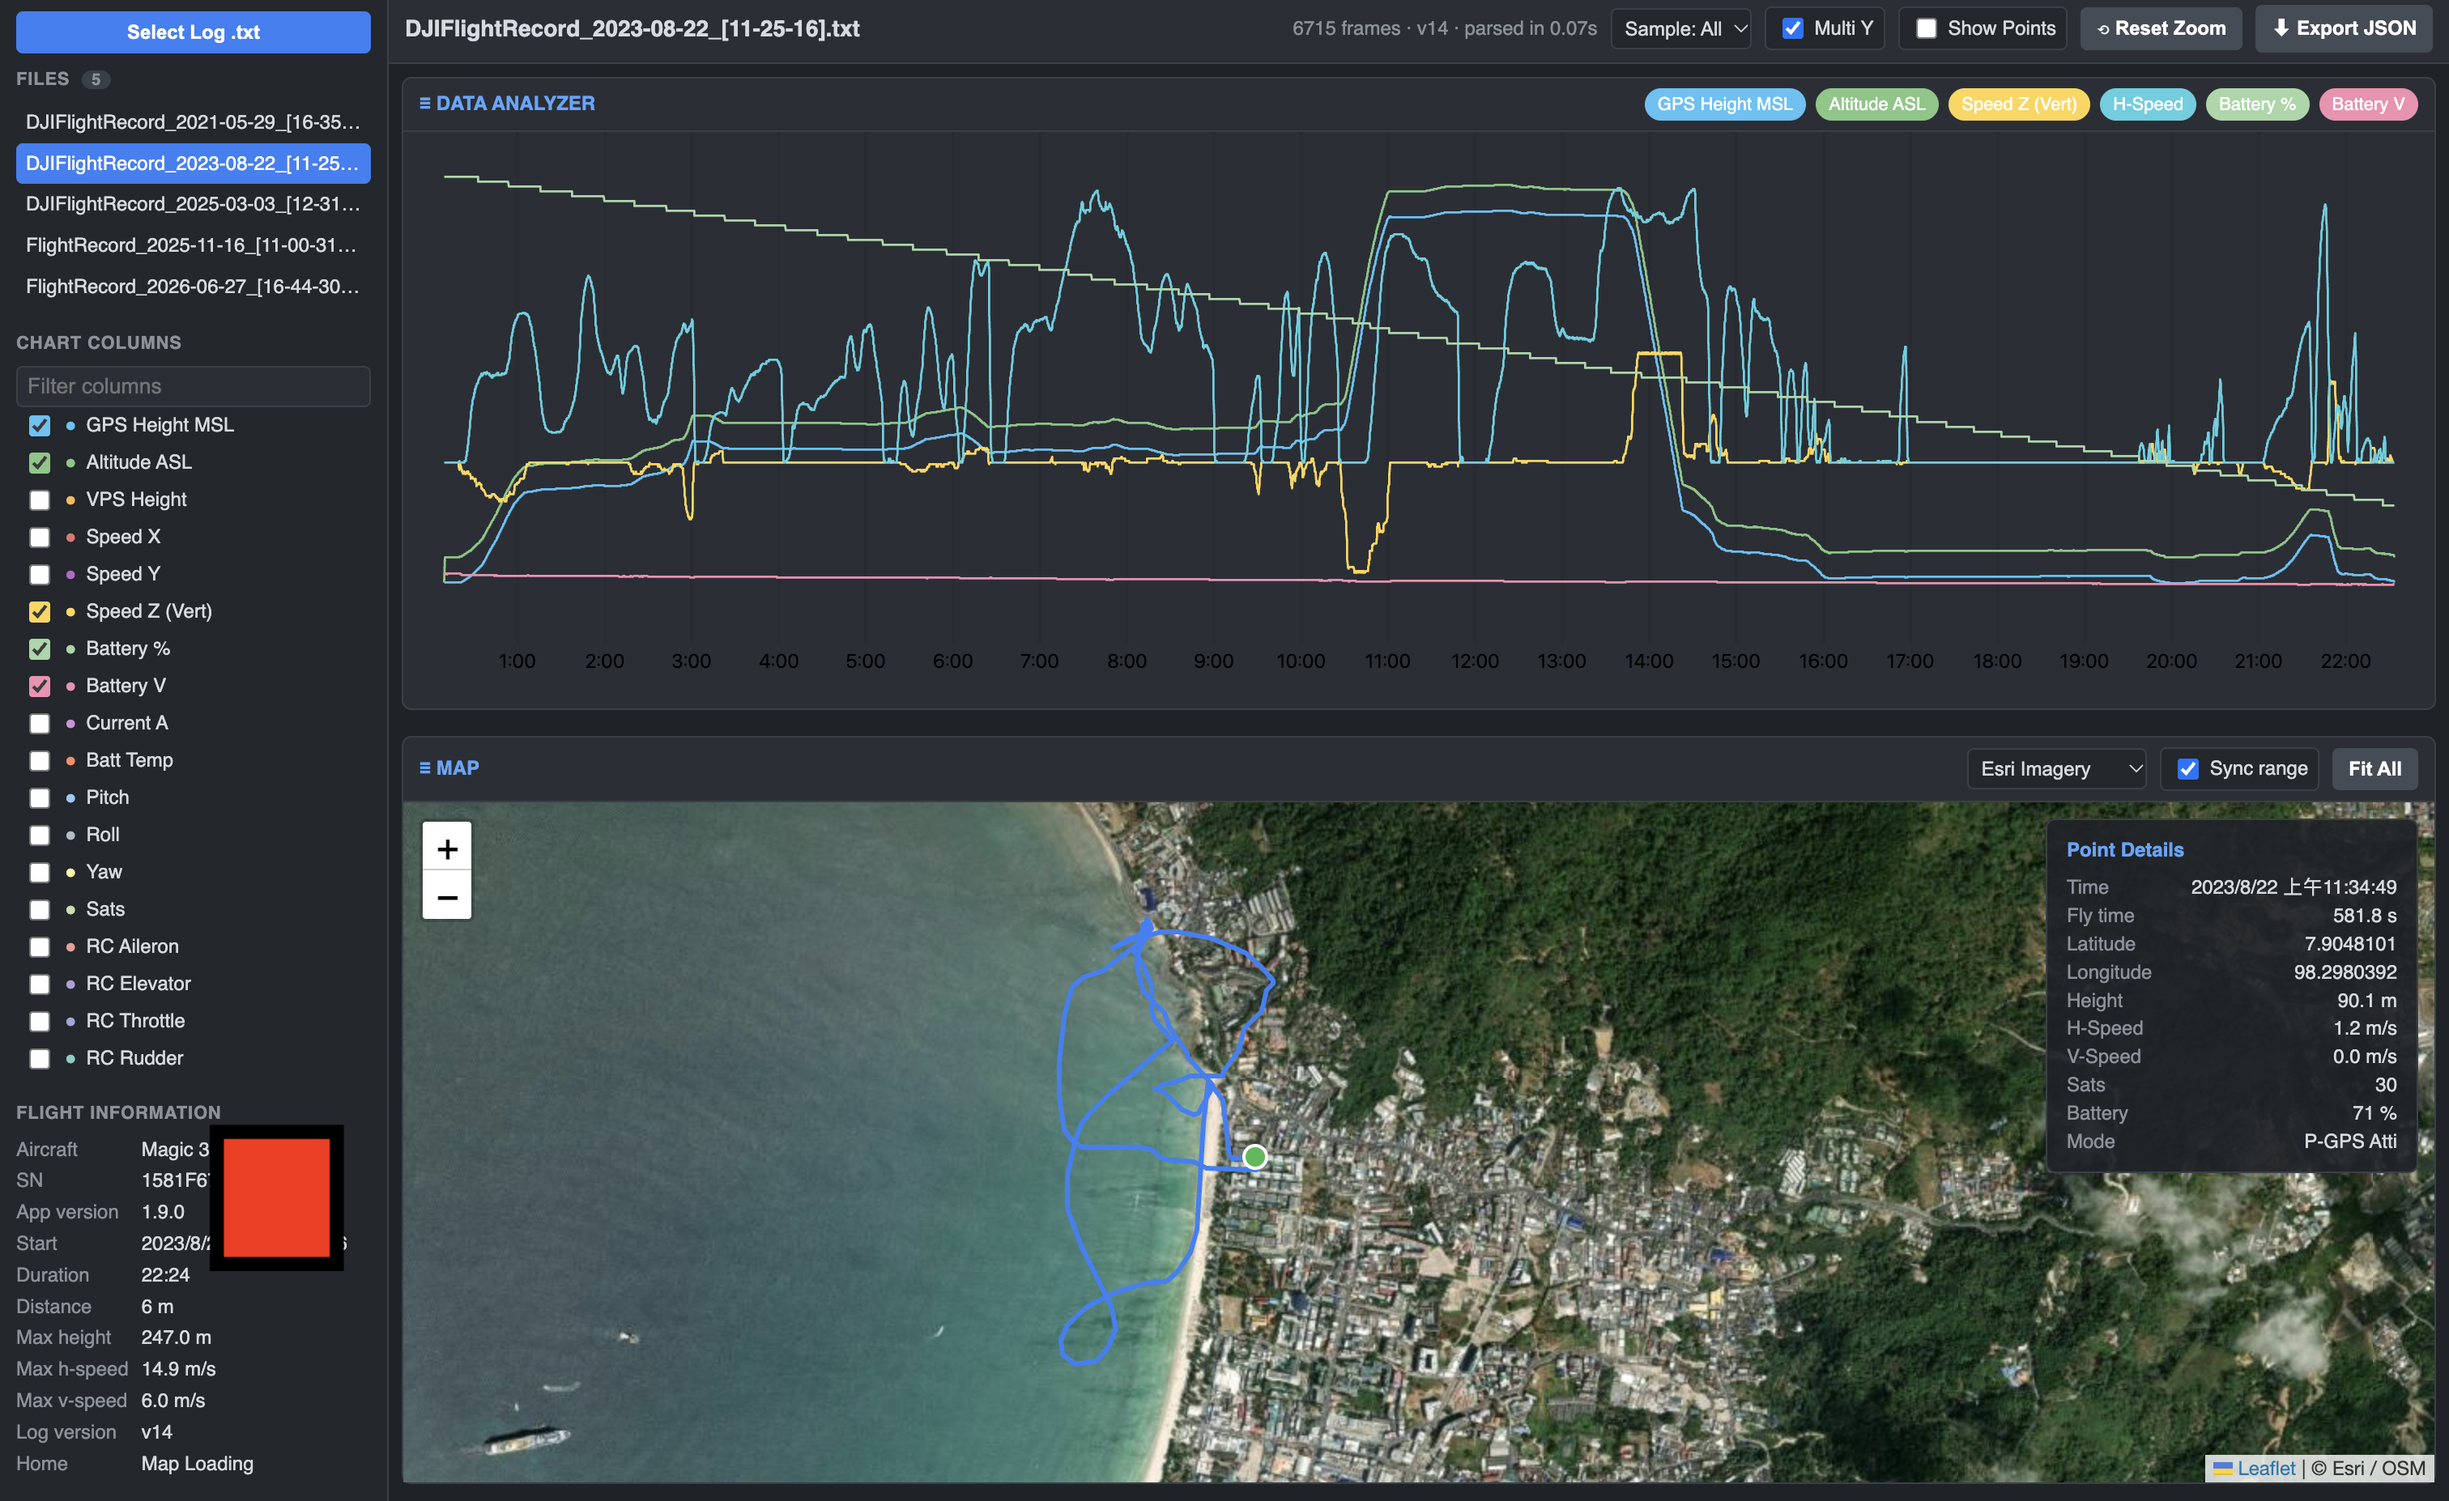
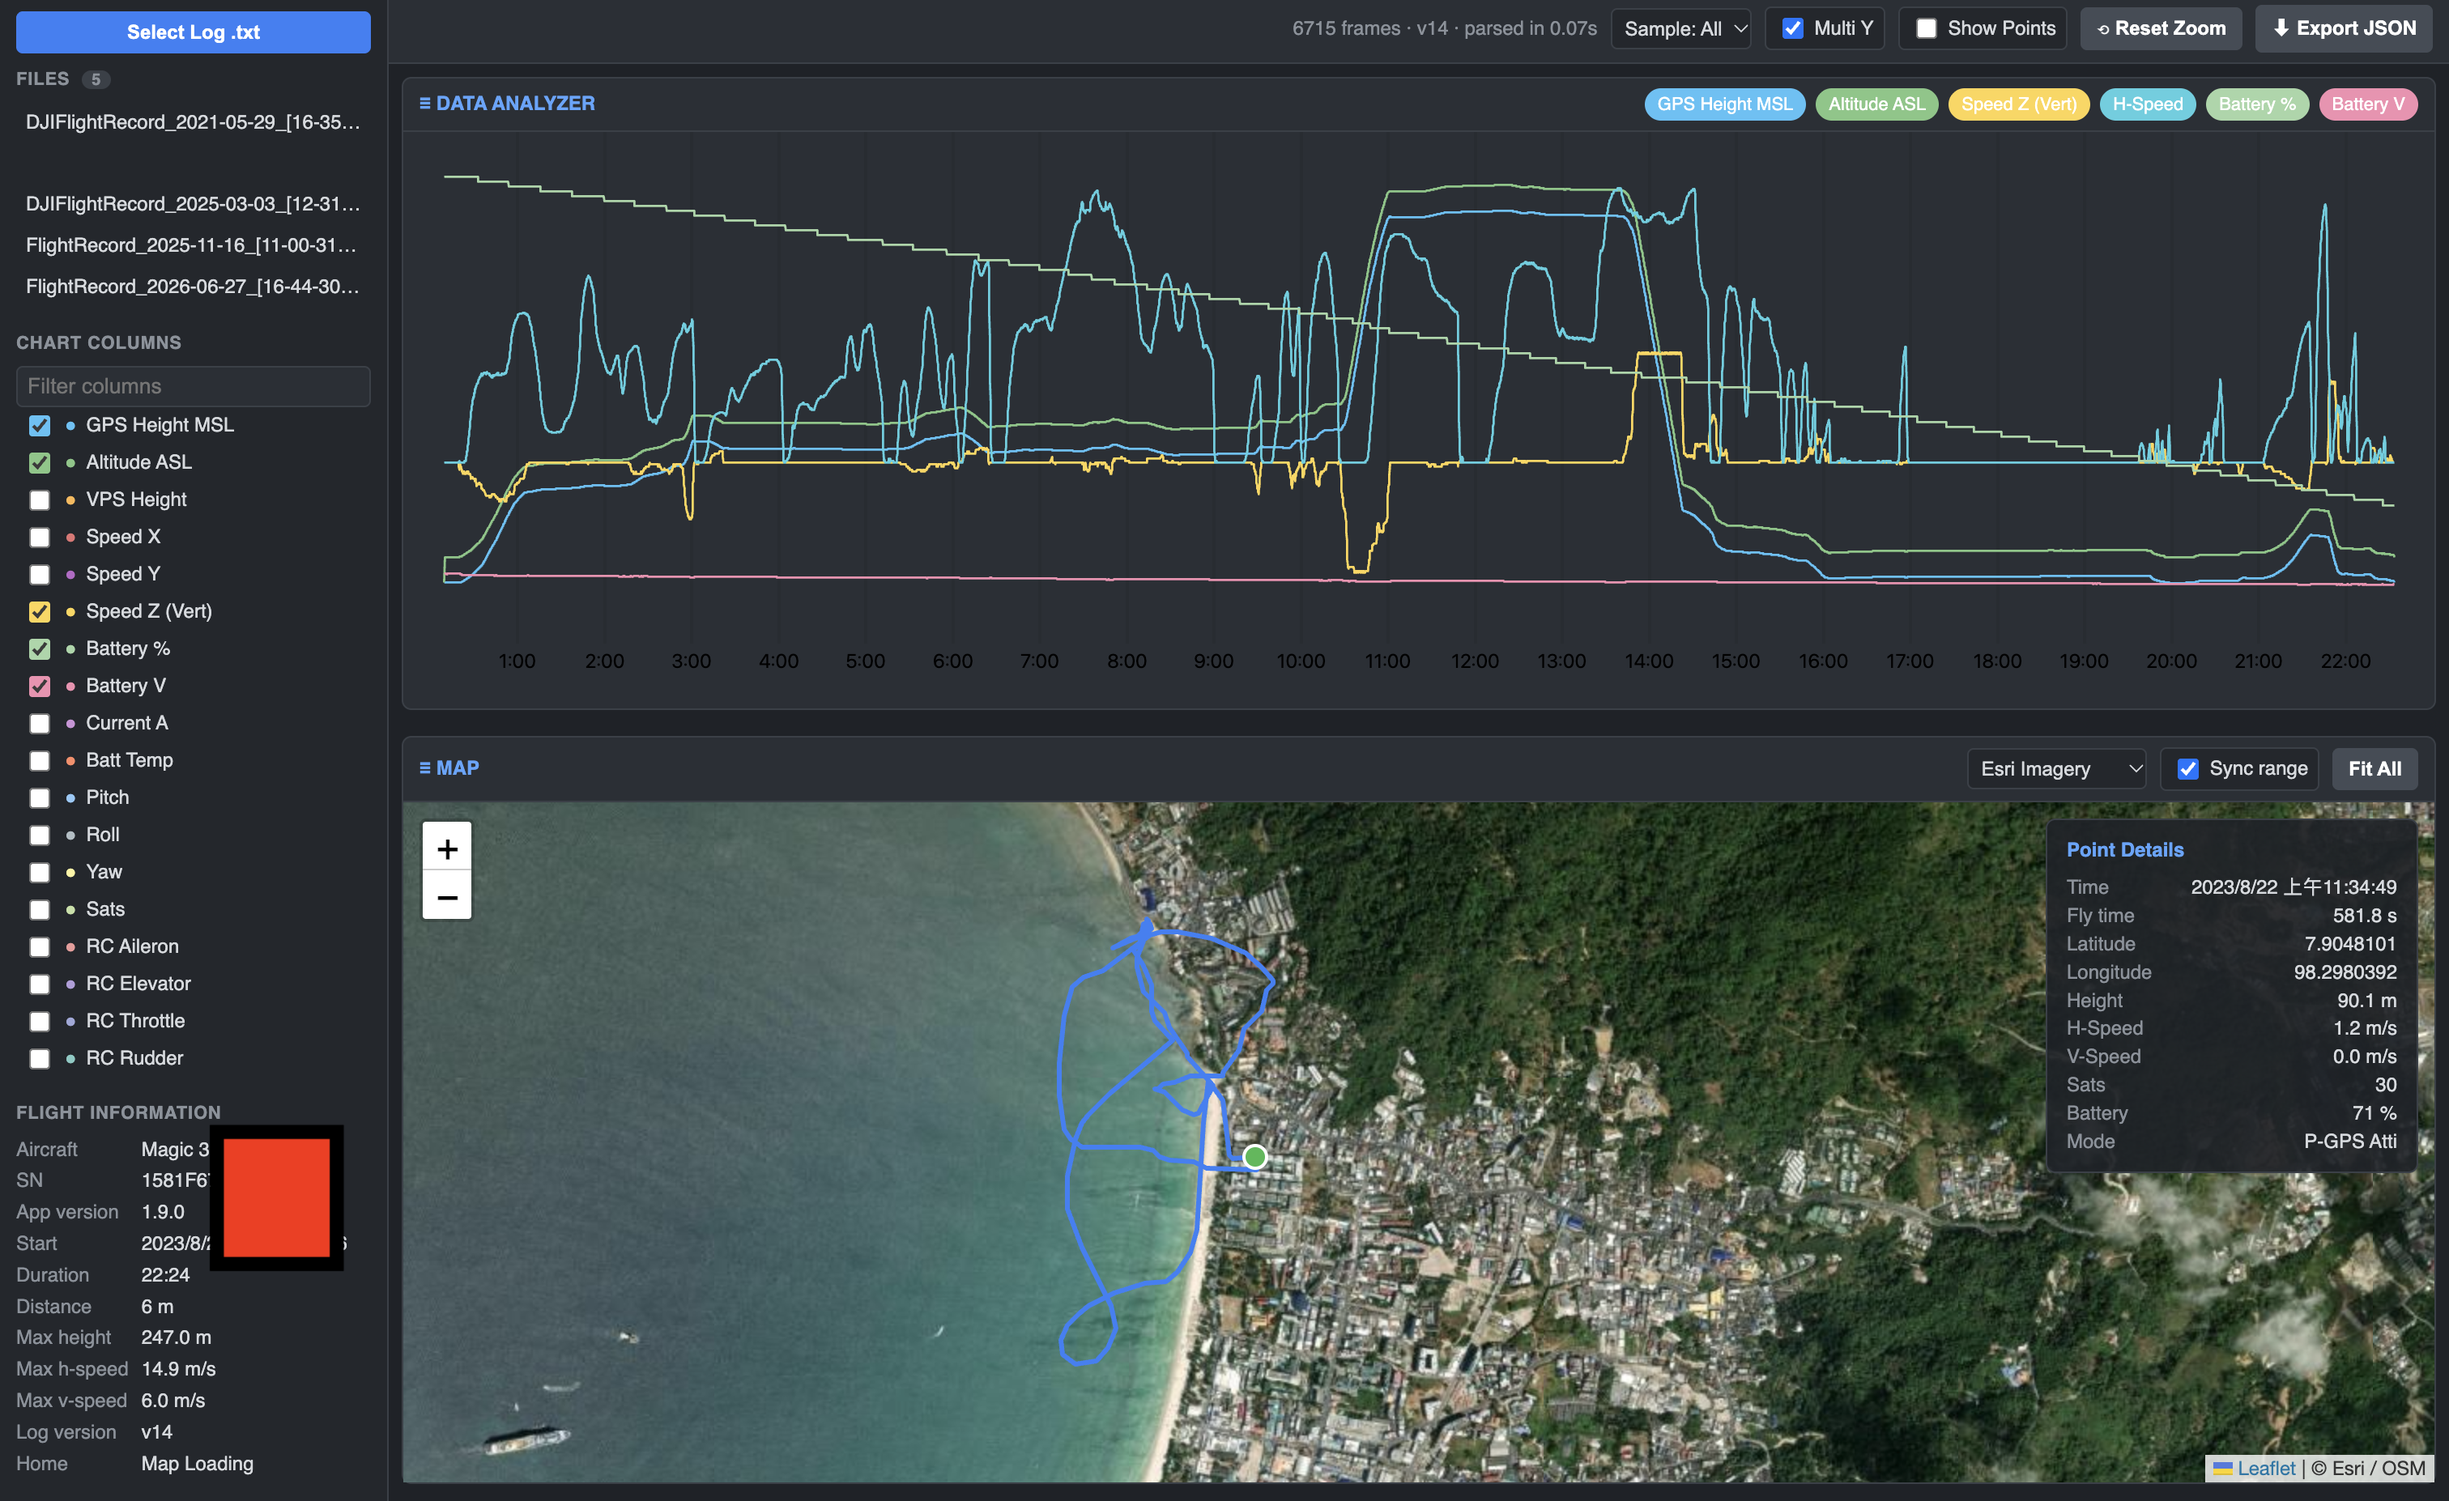
Remove the sample flight-record filename from the README page.

Changed region(s): [[0.1554, 0.0, 0.3419, 0.0307], [0.0, 0.0922, 0.1554, 0.123]]

diff --git a/README.md b/README.md
@@ -176,4 +176,4 @@ static/              UI (index.html, style.css, app.js)
 
 ## Log compatibility
 
-Tested with v14 logs from **DJI Mini 3 Pro**, **DJI Neo**, and **Mavic 3 Classic** (`DJIFlightRecord_2023-08-22_[11-25-16].txt` on the viewer machine). The log stores the aircraft as “Magic 3 Classic”; the parser shows it as Mavic 3 Classic. The Neo has no GPS, so map view is gracefully skipped for such logs.
+Tested with v14 logs from **DJI Mini 3 Pro**, **DJI Neo**, and **Mavic 3 Classic**. The Mavic 3 Classic log stores the aircraft as “Magic 3 Classic”; the parser shows it as Mavic 3 Classic. The Neo has no GPS, so map view is gracefully skipped for such logs.
